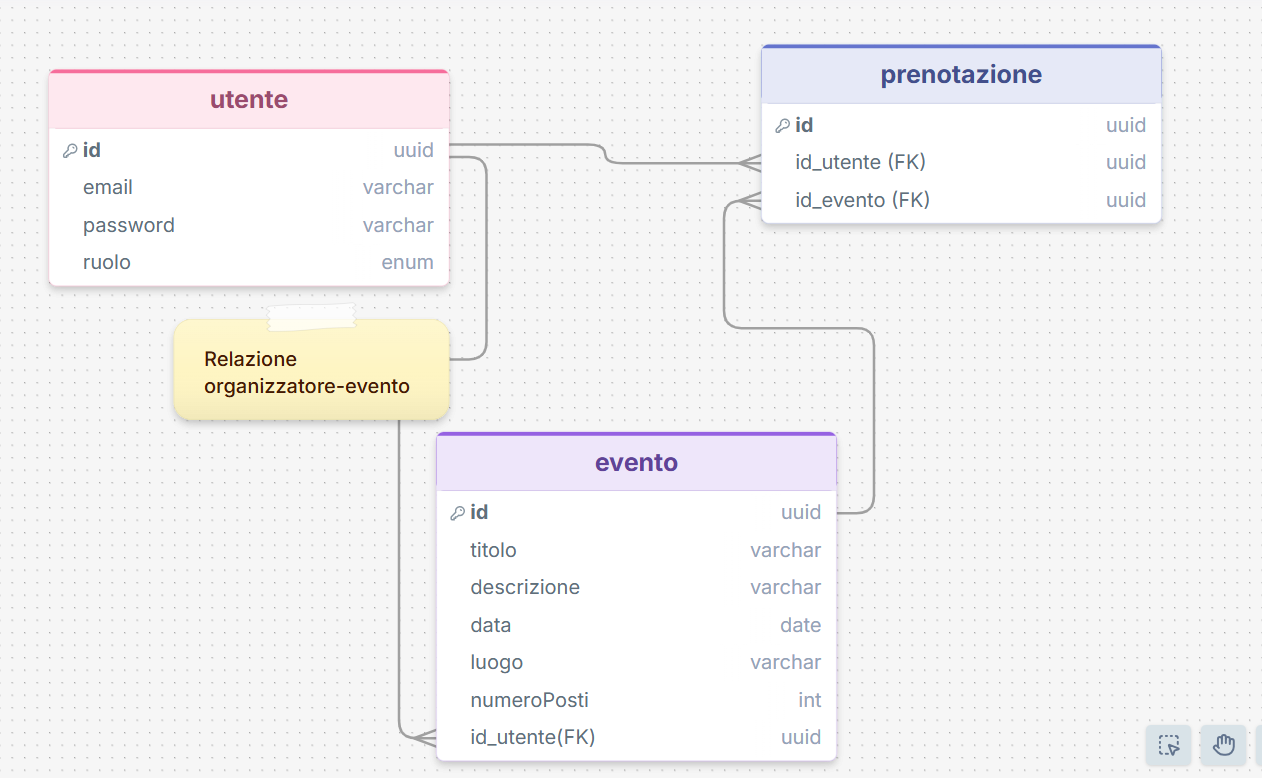
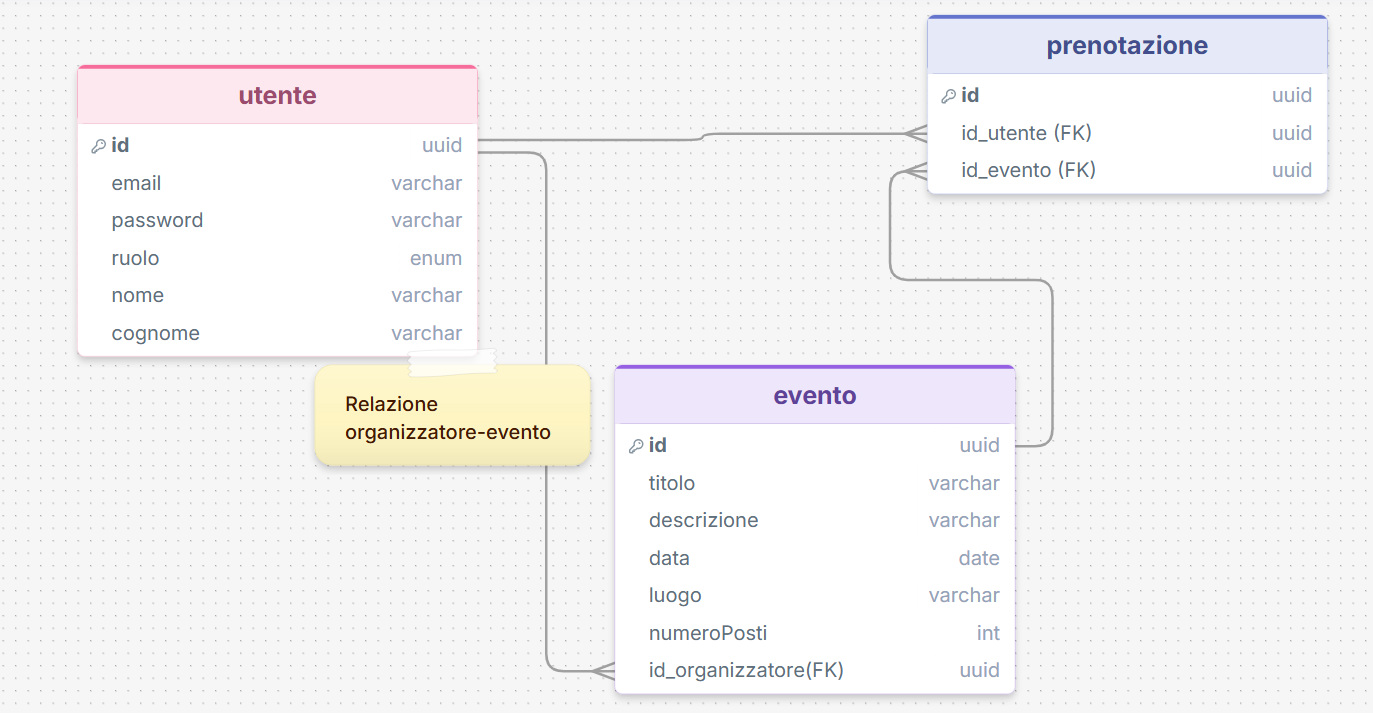
aggiornato entity user

diff --git a/src/main/java/giuliaciampa/U5_W3_D5/entities/Utente.java b/src/main/java/giuliaciampa/U5_W3_D5/entities/Utente.java
@@ -25,6 +25,12 @@ public class Utente implements UserDetails {
     @Setter(AccessLevel.NONE)
     private UUID id;
 
+    @Column(nullable = false, length = 20)
+    private String nome;
+
+    @Column(nullable = false, length = 20)
+    private String cognome;
+
     @Column(unique = true, nullable = false, length = 50)
     private String email;
 
@@ -32,7 +38,7 @@ public class Utente implements UserDetails {
     @JsonIgnore
     private String password;
 
-    @Column(nullable = false)
+    @Column(nullable = false, length = 30)
     @Enumerated(EnumType.STRING)
     private Ruolo ruolo;
 